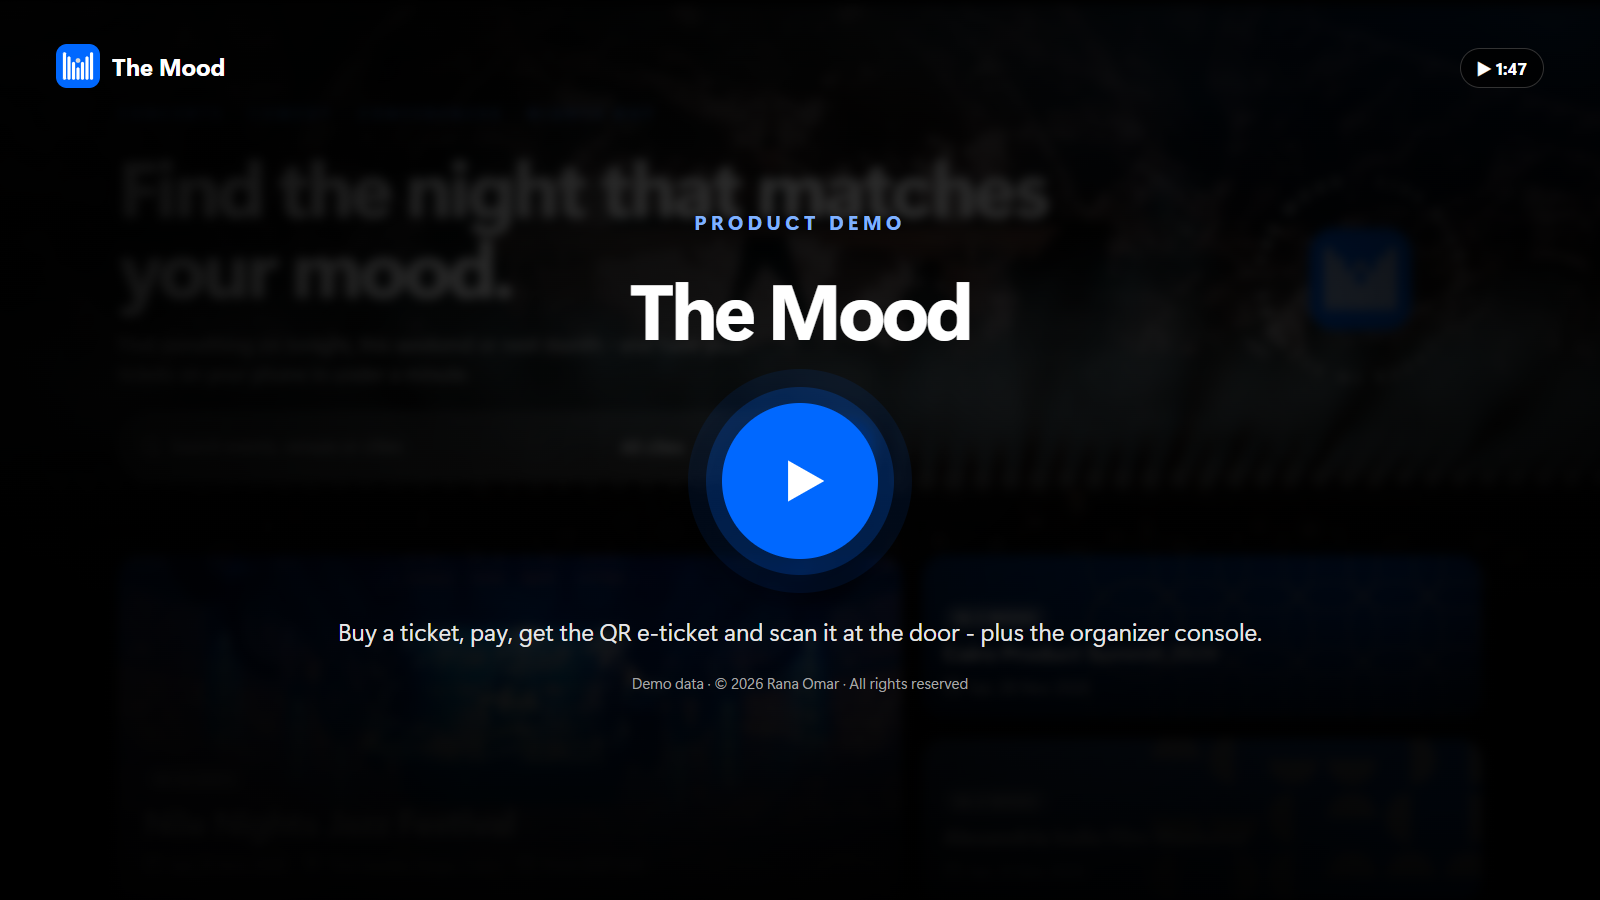
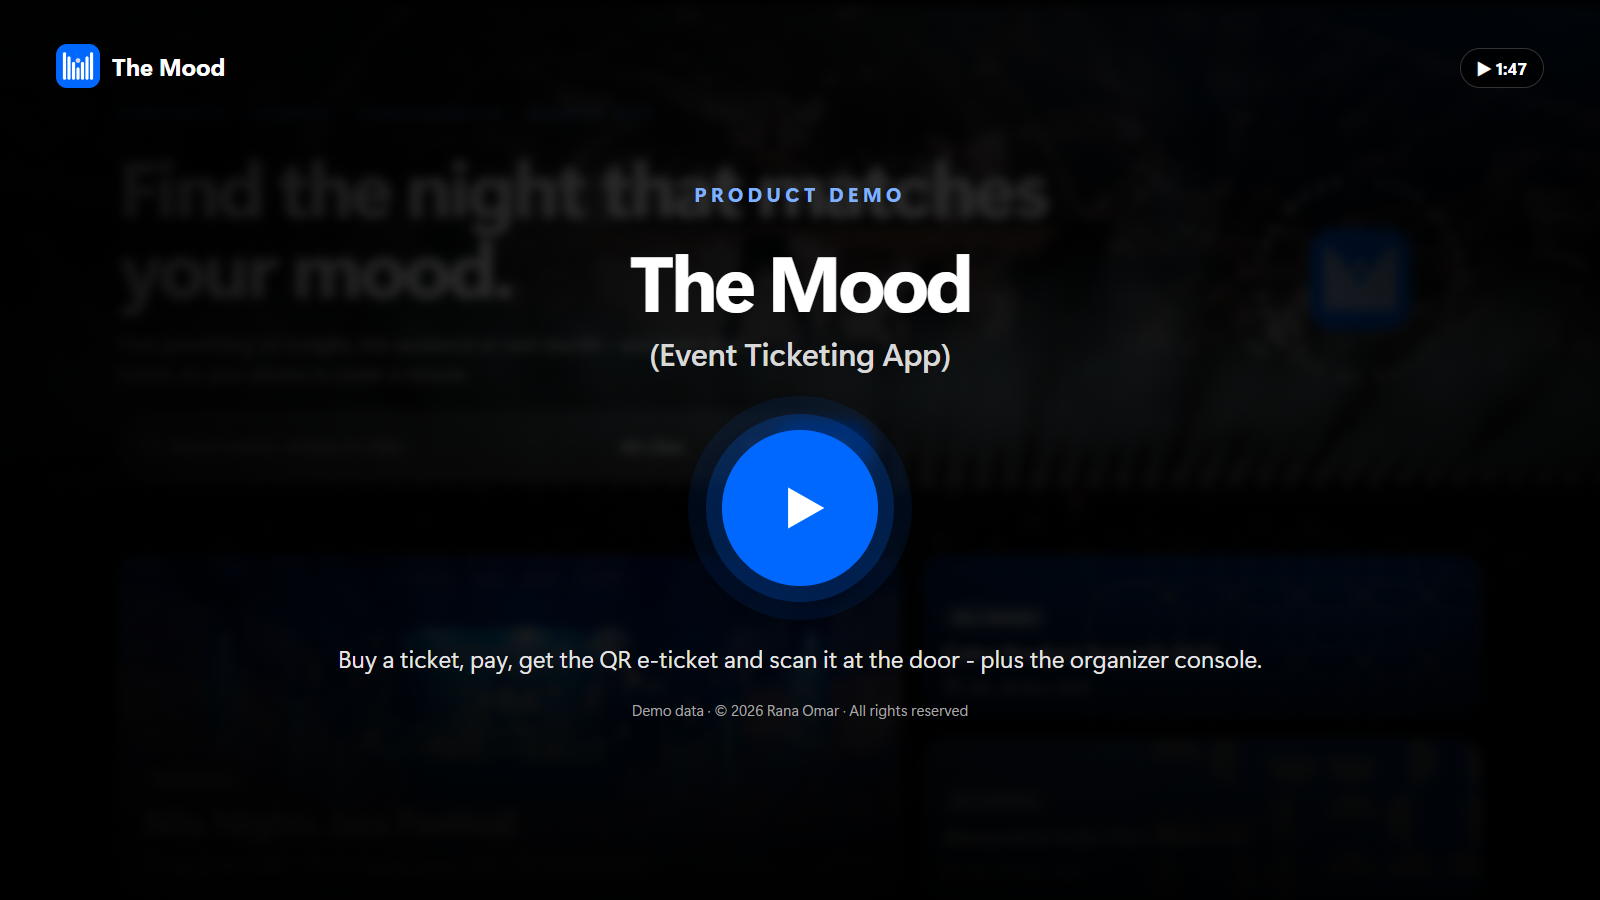
Show the app type in brackets: The Mood (Event Ticketing App)

Changed region(s): [[0.1875, 0.1867, 0.7812, 0.8089]]

diff --git a/index.html b/index.html
@@ -3,9 +3,9 @@
 <head>
   <meta charset="utf-8">
   <meta name="viewport" content="width=device-width, initial-scale=1">
-  <title>The Mood</title>
-  <meta name="description" content="The Mood: event ticketing with event discovery, card checkout (Stripe and Paymob), QR e-tickets, an organizer console, a box office and door check-in.">
-  <meta property="og:title" content="The Mood: event ticketing">
+  <title>The Mood (Event Ticketing App)</title>
+  <meta name="description" content="The Mood (Event Ticketing App): event discovery, card checkout (Stripe and Paymob), QR e-tickets, an organizer console, a box office and door check-in.">
+  <meta property="og:title" content="The Mood (Event Ticketing App)">
   <meta property="og:description" content="Discovery, checkout, QR e-tickets, an organizer console and door check-in.">
   <meta property="og:image" content="https://rana537omar.github.io/the-mood-showcase/media/banner.png">
   <link rel="icon" href="media/icon.svg" type="image/svg+xml">
@@ -20,6 +20,8 @@
     .topbar .wrap { display: flex; align-items: center; gap: 12px; height: 60px; }
     .brand { display: flex; align-items: center; gap: 10px; font-weight: 800; font-size: 19px; letter-spacing: -.02em; color: var(--text); text-decoration: none; }
     .brand img { width: 30px; height: 30px; }
+    .brand .type { font-weight: 600; font-size: 14.5px; letter-spacing: 0; color: var(--text-2); }
+    @media (max-width: 480px) { .brand .type { display: none; } }
     .topbar nav { margin-left: auto; display: flex; gap: 4px; }
     .topbar nav a { color: var(--text-2); text-decoration: none; font-size: 14.5px; font-weight: 600; padding: 7px 12px; border-radius: 999px; }
     .topbar nav a:hover { background: var(--surface-2); color: var(--text); }
@@ -70,10 +72,10 @@
 </head>
 <body>
   <div class="topbar"><div class="wrap">
-    <a class="brand" href="#top"><img src="media/icon.svg" alt="">The Mood</a>
+    <a class="brand" href="#top"><img src="media/icon.svg" alt="">The Mood <span class="type">(Event Ticketing App)</span></a>
     <nav><a href="#demo">Demo</a><a href="#features">Features</a><a href="#screens">Screenshots</a><a class="go" href="#contact">Get it</a></nav>
   </div></div>
-  <header class="hero" id="top"><div class="wrap" style="padding:0"><img src="media/banner.png" alt="The Mood: event ticketing with discovery, checkout, QR e-tickets, an organizer console and door check-in"></div></header>
+  <header class="hero" id="top"><div class="wrap" style="padding:0"><img src="media/banner.png" alt="The Mood (Event Ticketing App): discovery, checkout, QR e-tickets, an organizer console and door check-in"></div></header>
   <main class="wrap">
     <h1>Event ticketing that feels like the night itself.</h1>
     <p class="lead">The Mood sells tickets for concerts, comedy, conferences and nights out. Buyers find an event, pay by card and get QR e-tickets on their phone in under a minute. Organizers run events, sales, refunds, promo codes and the box office from one console, and the door team scans guests in from any phone.</p>

diff --git a/README.md b/README.md
@@ -1,6 +1,6 @@
-<p align="center"><img src="media/banner.png" alt="The Mood: event ticketing with discovery, checkout, QR e-tickets, an organizer console and door check-in" width="100%"></p>
+<p align="center"><img src="media/banner.png" alt="The Mood (Event Ticketing App): discovery, checkout, QR e-tickets, an organizer console and door check-in" width="100%"></p>
 
-# The Mood
+# The Mood (Event Ticketing App)
 
 **A complete event ticketing platform for concerts, comedy, conferences and nights out.** Buyers find an event, pay by card and get QR e-tickets on their phone in under a minute. Organizers run everything from one console: events and ticket types, sales and refunds, promo codes, a box office for door and phone sales, and a door check-in screen that works on any phone or laptop.
 
@@ -12,7 +12,7 @@
 
 ## Demo video
 
-<p align="center"><a href="https://rana537omar.github.io/the-mood-showcase/#demo"><img src="media/video-poster.png" alt="Watch the 2-minute The Mood demo" width="100%"></a></p>
+<p align="center"><a href="https://rana537omar.github.io/the-mood-showcase/#demo"><img src="media/video-poster.png" alt="Watch the 2-minute demo of The Mood (Event Ticketing App)" width="100%"></a></p>
 
 A walkthrough of just under 2 minutes, in 1080p. It shows a buyer finding an event, applying a promo code, paying and getting QR e-tickets. Then it moves to the organizer console: the dashboard, events and attendees, a box-office sale, the door check-in scan (and a caught second scan), promo codes and the payment settings. **[Watch it on the showcase website](https://rana537omar.github.io/the-mood-showcase/#demo)**.
 
